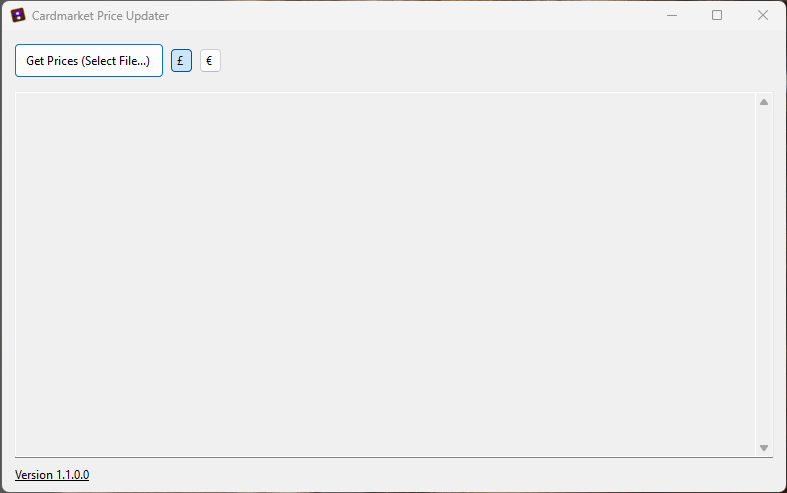
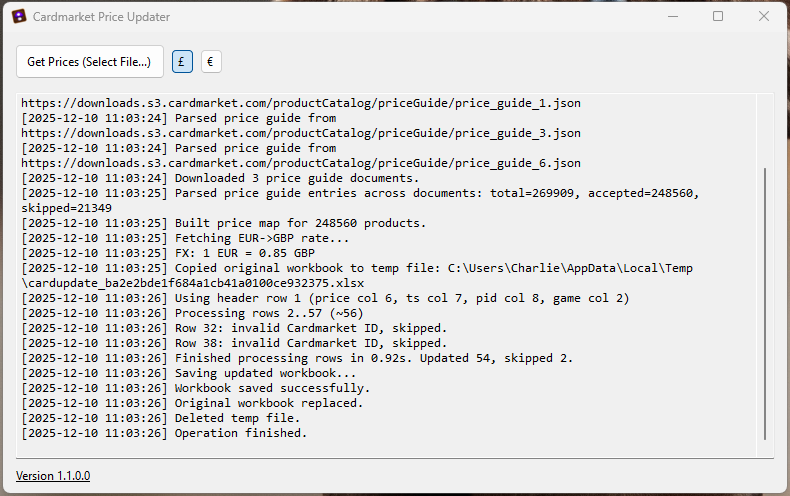
2025-12-10.2

Changed region(s): [[0.0, 0.0, 1.0, 1.0], [0.4574, 0.0, 0.6404, 0.0304]]

diff --git a/_projects/Cardmarket_Price_Updater.md b/_projects/Cardmarket_Price_Updater.md
@@ -14,6 +14,8 @@ So to help do that I wrote [this program](https://github.com/ProfessorShroom/Car
 
 It's pretty easy to setup, if you have a big list of cards like I did it will take a while to go through initially but after that is all done it's pretty useful.
 
+The program will get all the details it needs from a provided Excel shreadsheet that you can fill out and add to yourself, I use it for every single Red-Eyes Black Dragon printed in English, along with a few OCG cards that I want. It then writes to that sheet with updated prices and also the date it got the price so you know how current it is. Currently it gets an average price from all printings (1st Edition, Unlimited, etc.) but I will look to replace that with just 1st Edition in the future as most collectors just care about that.
+
 All the instructions are on the repo page.
 
 Here's the repo below.
@@ -25,9 +27,12 @@ Here's the repo below.
         {% include figure.liquid loading="eager" path="assets/img/yugioh/cardmarket_price_updater.png" title="example image" class="img-fluid rounded z-depth-1" %}
     </div>
     <div class="col-sm mt-3 mt-md-0">
+        {% include figure.liquid loading="eager" path="assets/img/yugioh/cardmarket_excel_sheet.png" title="example image" class="img-fluid rounded z-depth-1" %}
+    </div>
+    <div class="col-sm mt-3 mt-md-0">
         {% include figure.liquid loading="eager" path="assets/img/yugioh/nkc1.png" title="example image" class="img-fluid rounded z-depth-1" %}
     </div>
 </div>
 <div class="caption">
-    On the left, the GUI of my program. On the right, the Nike collaboration card NKC1-EN002 that made me want to complete the Red-Eyes collection.
+    On the left, the GUI of my program. In the middle the Excel sheet that the program will write prices to. On the right, the Nike collaboration card NKC1-EN002 that made me want to complete the Red-Eyes collection.
 </div>
